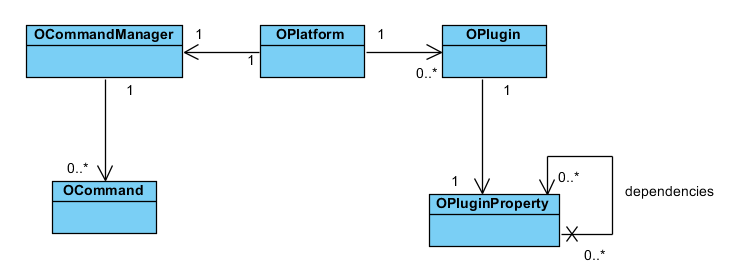
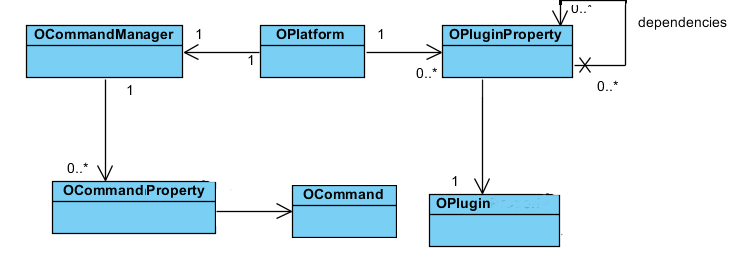
fix report + new command

diff --git a/report/platform.tex b/report/platform.tex
@@ -12,15 +12,15 @@ Lorsqu'on lance la plateforme sans aucun paramètres, elle va automatiquement ch
 
 \subsection{Lancement par commandes}
 
-Pour lancer des actions spécifiques de la plateforme, vous pouvez passer des commandes à l'execution. Si vous passez par maven, il faut passer les commandes comme ceci: -Dexec.args="--command"
+Pour lancer des actions spécifiques de la plateforme, vous pouvez passer des commandes à l'execution. Si vous passez par maven, il faut passer les commandes comme ceci: -Dexec.args="-command"
 
-\subsubsection{"--help"}
+\subsubsection{"-help"}
 La commande help liste toutes les commandes disponibles sur la plateforme, idéal pour commencer à appréhender le fonctionnement de cette dernière.
 
-\subsubsection{"--pluginList"}
+\subsubsection{"-pluginList"}
 La commande pluginList liste tous les plugins disponibles sur la plateforme.
 
-\subsubsection{"--generatePlugin"}
+\subsubsection{"-generatePlugin"}
 La commande generatePlugin permet de générer automatiquement un plugin, lorsque vous la tapez, elle vous affichera alors un menu ou vous rentrerez les infortations relatives à votre plugin.
 
 \section{Structure}
@@ -108,9 +108,9 @@ public class myMainClass extends OPlugin{
 }
 \end{verbatim}
 
-Pour que votre plugin soit correctement reconnu par la plateforme, vous devez lui fournir un fichier Omanifest sous cette forme:
+Pour que votre plugin soit correctement reconnu par la plateforme, vous devez lui fournir un fichier OManifest sous cette forme:
 Attention! Si vous définissez des dépendances pour le plugin, vous devez les inclure dans maven
-\subsubsection{Omanifest}
+\subsubsection{OManifest}
 \begin{verbatim}
 <?xml version="1.0"?>
 <manifest>
@@ -178,13 +178,31 @@ Chaque plugin peut apporter son lot de commandes avec lui, pour les définir, il
 </manifest>
 \end{verbatim}
 
-\subsection{Déclaration d'un service}
+\subsection{Déclaration d'un nouveau type de service}
 Tout comme les commandes, chaque plugin peut apporter son lot de services avec lui, pour les définir, il suffit d'ajouter le code suivant dans le manifest:
 \begin{verbatim}
 <manifest>
     ...
     <services>
-        <service>com.onyx.core.MyService</service>
+        <service>com.onyx.core.OAppProperty</service>
     </services>
+</manifest>
+\end{verbatim}
+
+et la classe service devra contenir certaines annotations pour être interprété
+
+\includegraphics[width=10cm]{figures/newServiceType.png}
+
+\subsection{Déclaration d'un service}
+
+Chaque plugin peut apporter son lot de service avec lui, l'ajout d'une commande est en réalisté l'ajout d'un service, son serviceType est quand à lui le seul présent de base dans la platforme. Ainsi le serviceType application est présent dans le core. Pour les définir, il suffit d'ajouter la description de la classe serviceType au manifest, voici un exemple pour le serviceType créé au dessus : 
+
+\begin{verbatim}
+<manifest>
+    ...
+    <application>
+        <id>mycommand</id>
+        <mainActivity>com.onyx.myplugin.mainActivity</mainActivity>
+    </command>
 </manifest>
 \end{verbatim}

diff --git a/onyx-core/src/main/java/com/onyx/core/command/GenerateEmptyApplicationCommand.java b/onyx-core/src/main/java/com/onyx/core/command/GenerateEmptyApplicationCommand.java
@@ -1,0 +1,36 @@
+package com.onyx.core.command;
+
+import com.onyx.platform.commands.OCommand;
+
+import java.util.List;
+
+/**
+ * Created by Maxime on 25/03/15.
+ */
+public class GenerateEmptyApplicationCommand extends OCommand{
+    @Override
+    public void run(List<String> args) {
+        if(args.size() != 4) {
+            System.out.println("invalid command, use :" + getProperty().usage);
+            return;
+        }
+        System.out.println("OManifest");
+        System.out.println("---------");
+        System.out.println("<?xml version=\"1.0\"?>");
+        System.out.println("<manifest>");
+        System.out.println("\t<id>"+args.get(0)+"</id>");
+        System.out.println("\t<version>"+args.get(2)+"</version>");
+        System.out.println("\t<name>"+args.get(1)+"</name>");
+        System.out.println("\t<description></description>");
+        System.out.println("\t<application>");
+        System.out.println("\t\t<id>"+args.get(0)+".app</id>");
+        System.out.println("\t\t<name>"+args.get(1)+"</name>");
+        System.out.println("\t\t<mainActivity>"+args.get(3)+"</mainActivity>");
+        System.out.println("\t</application>");
+        System.out.println("</manifest>");
+
+        System.out.println();
+        System.out.println("Manifest généré!");
+
+    }
+}
